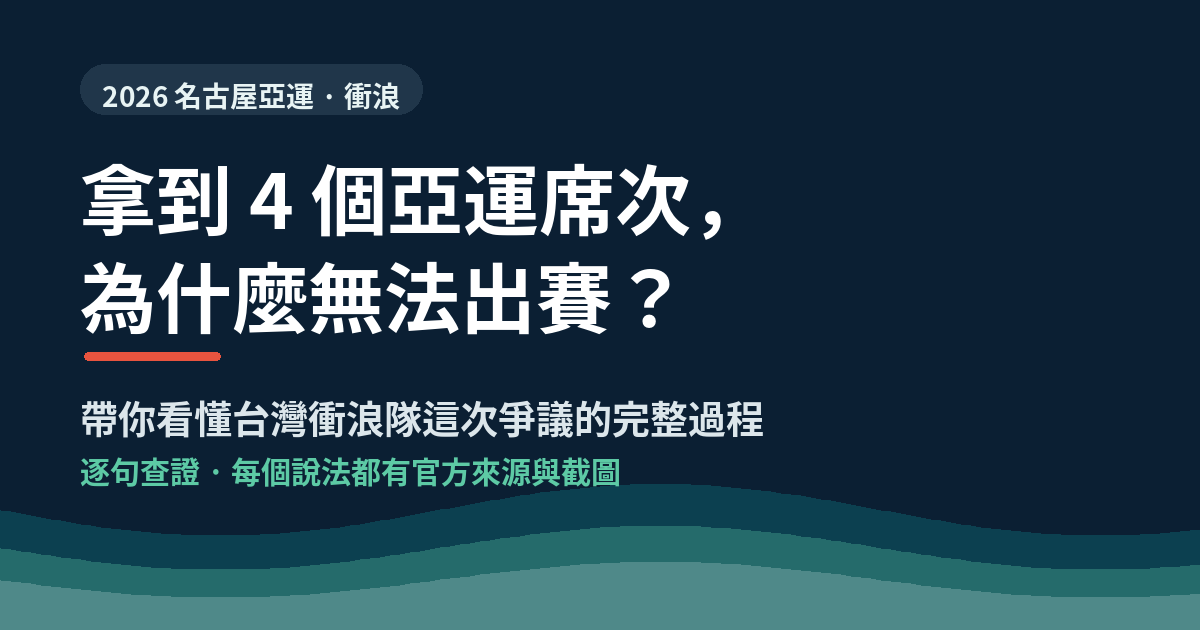
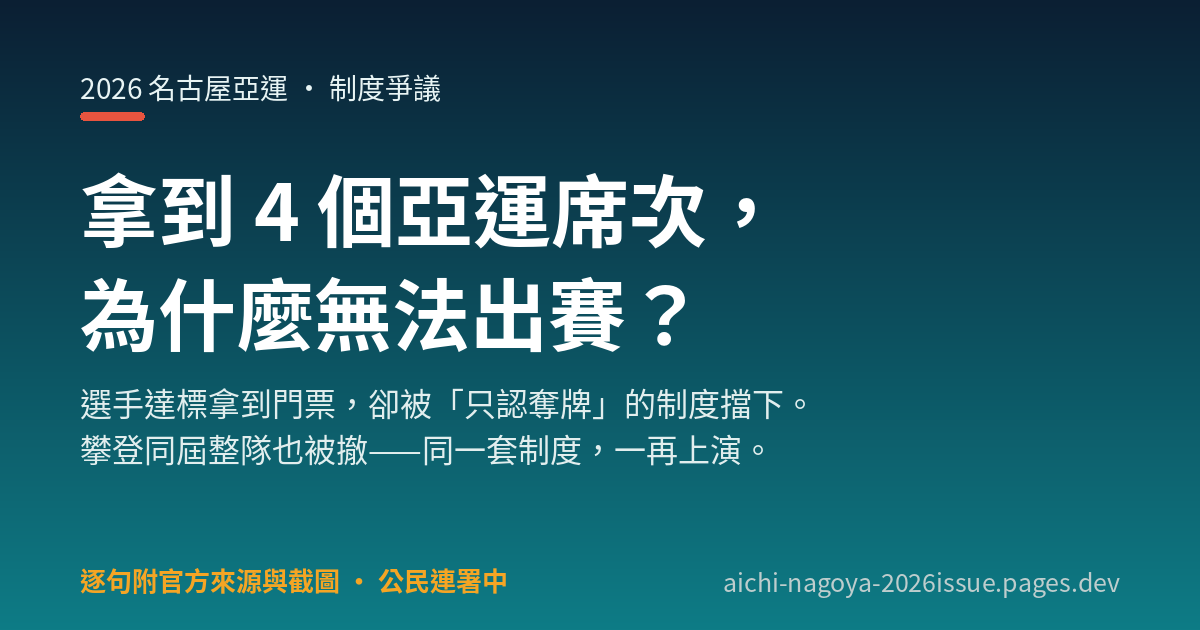
OG圖更新

diff --git a/web/app/layout.tsx b/web/app/layout.tsx
@@ -6,14 +6,14 @@ import FloatingActions from "@/components/FloatingActions";
 import { GoogleAnalytics } from "@next/third-parties/google";
 
 export const metadata: Metadata = {
-  metadataBase: new URL("https://aichi-nagoya-2026issue.vercel.app"),
+  metadataBase: new URL("https://aichi-nagoya-2026issue.pages.dev"),
   title: "台灣拿到 4 個亞運衝浪名額，最後只派 2 位——為什麼？｜制度爭議與連署懶人包",
   description:
     "選手達標拿到亞運門票，卻被「只認奪牌」的菁英制度擋著不能去；攀登同屆整隊也被撤。事件經過、制度依據與官方文件一次整理，每句都附官方來源與截圖，並附公民連署——要一個交代、把制度改好。",
   openGraph: {
-    title: "他們替台灣贏到亞運門票，卻被自己國家擋著不能去",
+    title: "拿到 4 個亞運席次，為什麼無法出賽？",
     description:
-      "衝浪 4 席只派 2 個、攀登整隊被撤——同一套「只認奪牌」的制度一再上演。每句都附官方來源與截圖，並附公民連署。",
+      "選手達標拿到門票，卻被「只認奪牌」的制度擋下；攀登同屆整隊也被撤——同一套制度一再上演。每句都附官方來源與截圖，並附公民連署。",
     type: "website",
     locale: "zh_TW",
     images: [